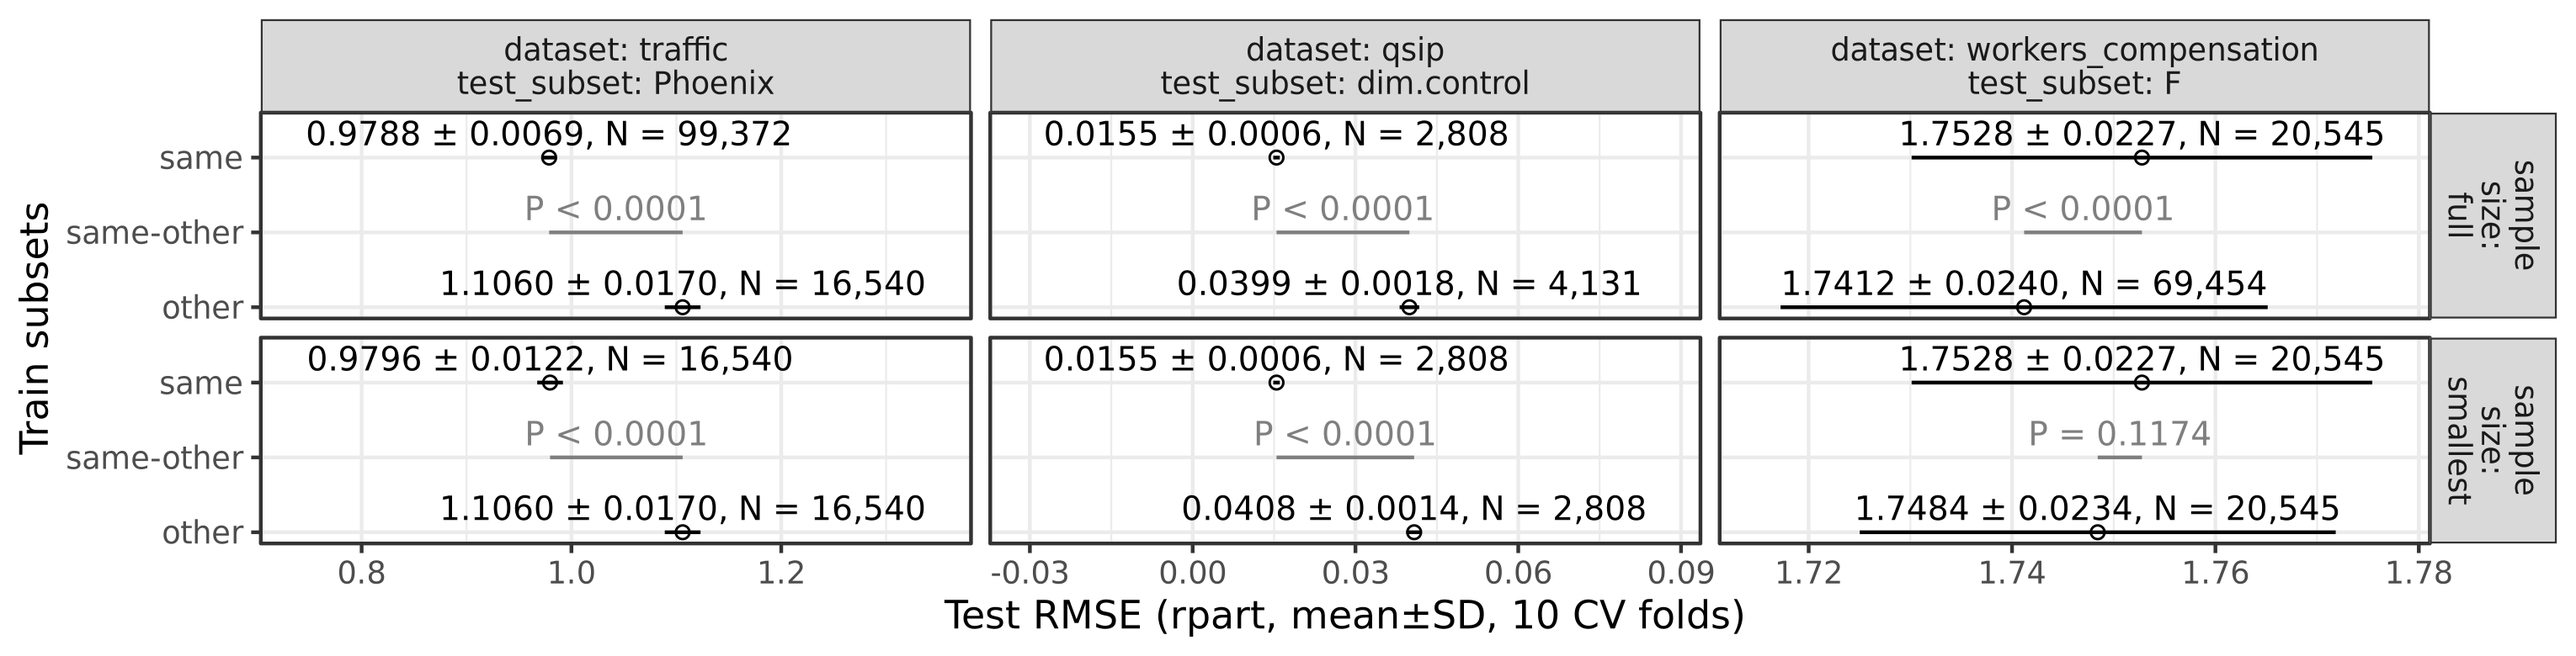
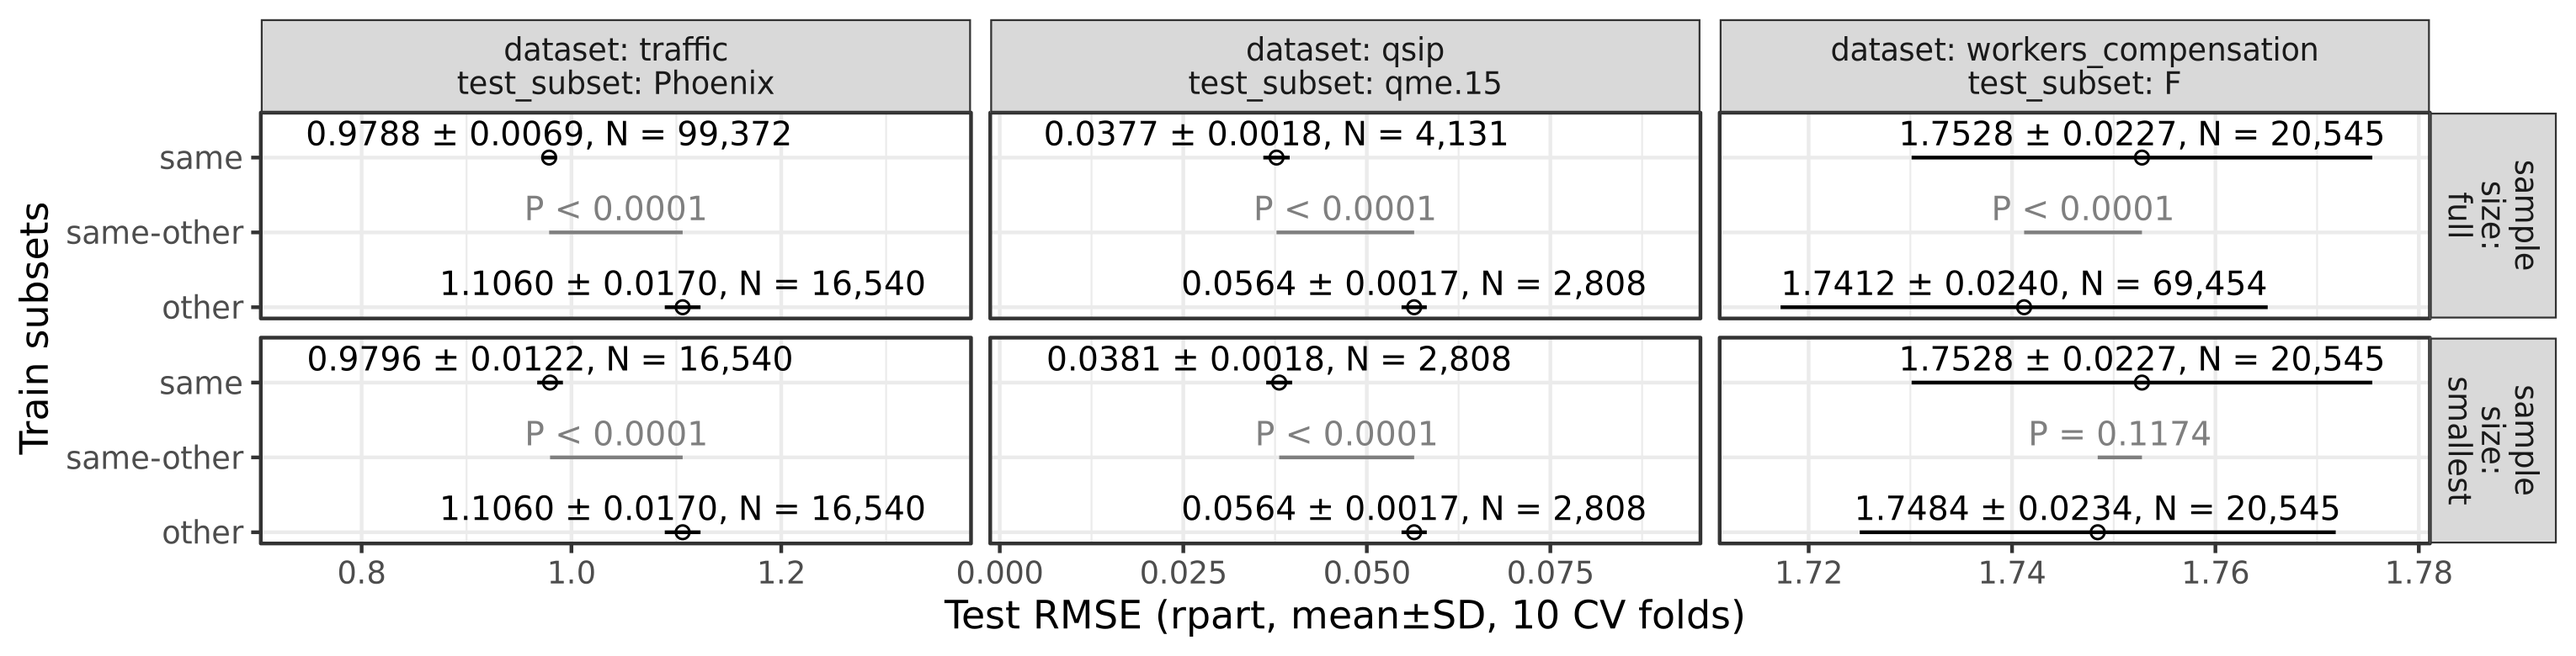
update: refine SOKED algorithm description and correct test subset references in main.tex; update figure for regression pairs

diff --git a/paper/main.tex b/paper/main.tex
@@ -74,11 +74,13 @@ We demonstrate this and related phenomena across simulated regression, benchmark
 \paragraph{Summary of contributions.}
 We make four contributions.
 \begin{enumerate}
-  \item \textbf{SOKED algorithm.} We propose the SOKED algorithm, ... (no existing code)
+  \item \textbf{SOKED algorithm and software gap.} We propose SOKED, an algorithmic extension of SOAK that uses matched-size downsampling to distinguish sample-size effects from residual subset effects.
+  To our knowledge, no existing codebase implements this Same/Other/All diagnostic with matched-size comparisons, so SOKED fills a practical software gap for subset-aware cross-validation.
   \item \textbf{Formal decomposition.} We introduce a decomposition of cross-validation performance gaps into a sample-size component and a residual subset component, grounded in matched-size downsampling.
   Lemma~\ref{lem:exchangeability} characterizes when the subset component is zero.
-  \item \textbf{Empirical demonstrations.} We show across simulated and real datasets, including demographic subsets relevant to fairness auditing, that the proposed SOKED algorithm ...
-  \item new proposed standard file format for benchmarks, with 8 data sets... (columns fold subset y x)
+  \item \textbf{Empirical demonstrations.} We show across simulated and real datasets, including demographic subsets relevant to fairness auditing, that the proposed SOKED algorithm separates apparent advantages caused by unequal training-set sizes from residual subset effects that persist after size matching.
+  \item \textbf{Benchmark file format.} We propose a simple standard file format for subset-aware benchmarking and release eight datasets in that format.
+  Each benchmark file makes the resampling split, subset label, target, and predictors explicit using \texttt{fold}, \texttt{subset}, \texttt{y}, and \texttt{x} columns.
 \end{enumerate}
 
 
@@ -253,9 +255,9 @@ If our goal is to have good predictions for females, we would like to know if tr
 
 \textbf{NSCH autism (classification).}
 The National Survey of Children's Health (NSCH) is a nationally representative annual survey conducted by the U.S.\ Census Bureau \citep{NSCH2019,NSCH2020}.
-We use survey years 2019 and 2020 as the two SOKED subsets (18,202 and 27,808 children respectively).
-Each row represents one child, with survey responses provided by an adult familiar with the child's health, and the features encode questionnaire items on diagnoses, family income, insurance coverage, healthcare access, neighborhood conditions, and related factors.
-The target is a binary autism diagnosis indicator ($\approx3\%$ positive rate).
+We use survey years 2019 and 2020 as the two SOAKED subsets (18,202 and 27,808 children, respectively).
+Each row represents one child ages 3-17 years, with survey responses provided by an adult familiar with the child’s health, and the features encode questionnaire items on condition diagnoses, family income, insurance coverage, healthcare access, neighborhood conditions, and other health-related factors. 
+The target is a binary autism identification (was the child ever diagnosed with autism by a doctor/other healthcare provider) indicator. 
 If our goal is to have good predictions for 2020, we would like to know if training on 2020 is more accurate because of the increased sample size, or because it is somehow different from 2019.
 
 \textbf{STL-10 (classification).}
@@ -358,7 +360,9 @@ Panel B shows that these predictive gains come with large differences in computa
 Featureless, \texttt{rpart}, and \texttt{glmnet} train in approximately 0.002, 0.12, and 0.44 seconds per run, respectively, whereas the tuned torch MLP requires about 32.2 seconds.
 Because the main SOKED diagnosis is stable across these learner families, we use \texttt{rpart} in the remaining experiments as a simple nonlinear default that is much cheaper than the neural network, substantially cheaper than \texttt{glmnet}, and still captures the same subset-dependent structure.
 
-For qSIP, Figure~\ref{fig:regr-pairs} (middle column) shows SOKED results for the \texttt{dim.control} test subset: Same ($0.0155$) substantially outperforms Other ($0.0399$) at full sizes ($p < 0.0001$), and this gap persists after size-matching ($p < 0.0001$), confirming a strong treatment subset effect.
+For qSIP, Figure~\ref{fig:regr-pairs} (middle column) shows SOKED results for the \texttt{qme.15} test subset.
+At full training sizes, Same ($N=4{,}131$, RMSE $=0.0377$) outperforms Other ($N=2{,}808$, RMSE $=0.0564$), so the naive comparison could be attributed to Same having more training examples.
+After downsampling Same to $n_0 = 2{,}808$, the gap persists (Same $0.0381$ vs.\ Other $0.0564$, $p < 0.0001$), confirming a strong residual subset effect.
 
 For workers' compensation, Figure~\ref{fig:regr-pairs} (right column) shows the Female test subset.
 At full training sizes, Other ($N=69{,}454$) outperforms Same ($N=20{,}545$) in RMSE ($1.741$ vs.\ $1.753$, $p < 0.0001$).
@@ -369,7 +373,6 @@ This is the sample-size pattern SOKED is designed to reveal: most of the apparen
     \centering
     \includegraphics[width=\textwidth]{fig5-regr-pairs.png}
     \caption{
-    TODO qsip show other test subset, make sure larger N has lower error.
     SOKED results for three regression datasets (rpart learner, 10-fold CV), comparing Same and Other at full and matched training sizes by target subset.
     Each column corresponds to one dataset--test-subset pair.}
     \label{fig:regr-pairs}
